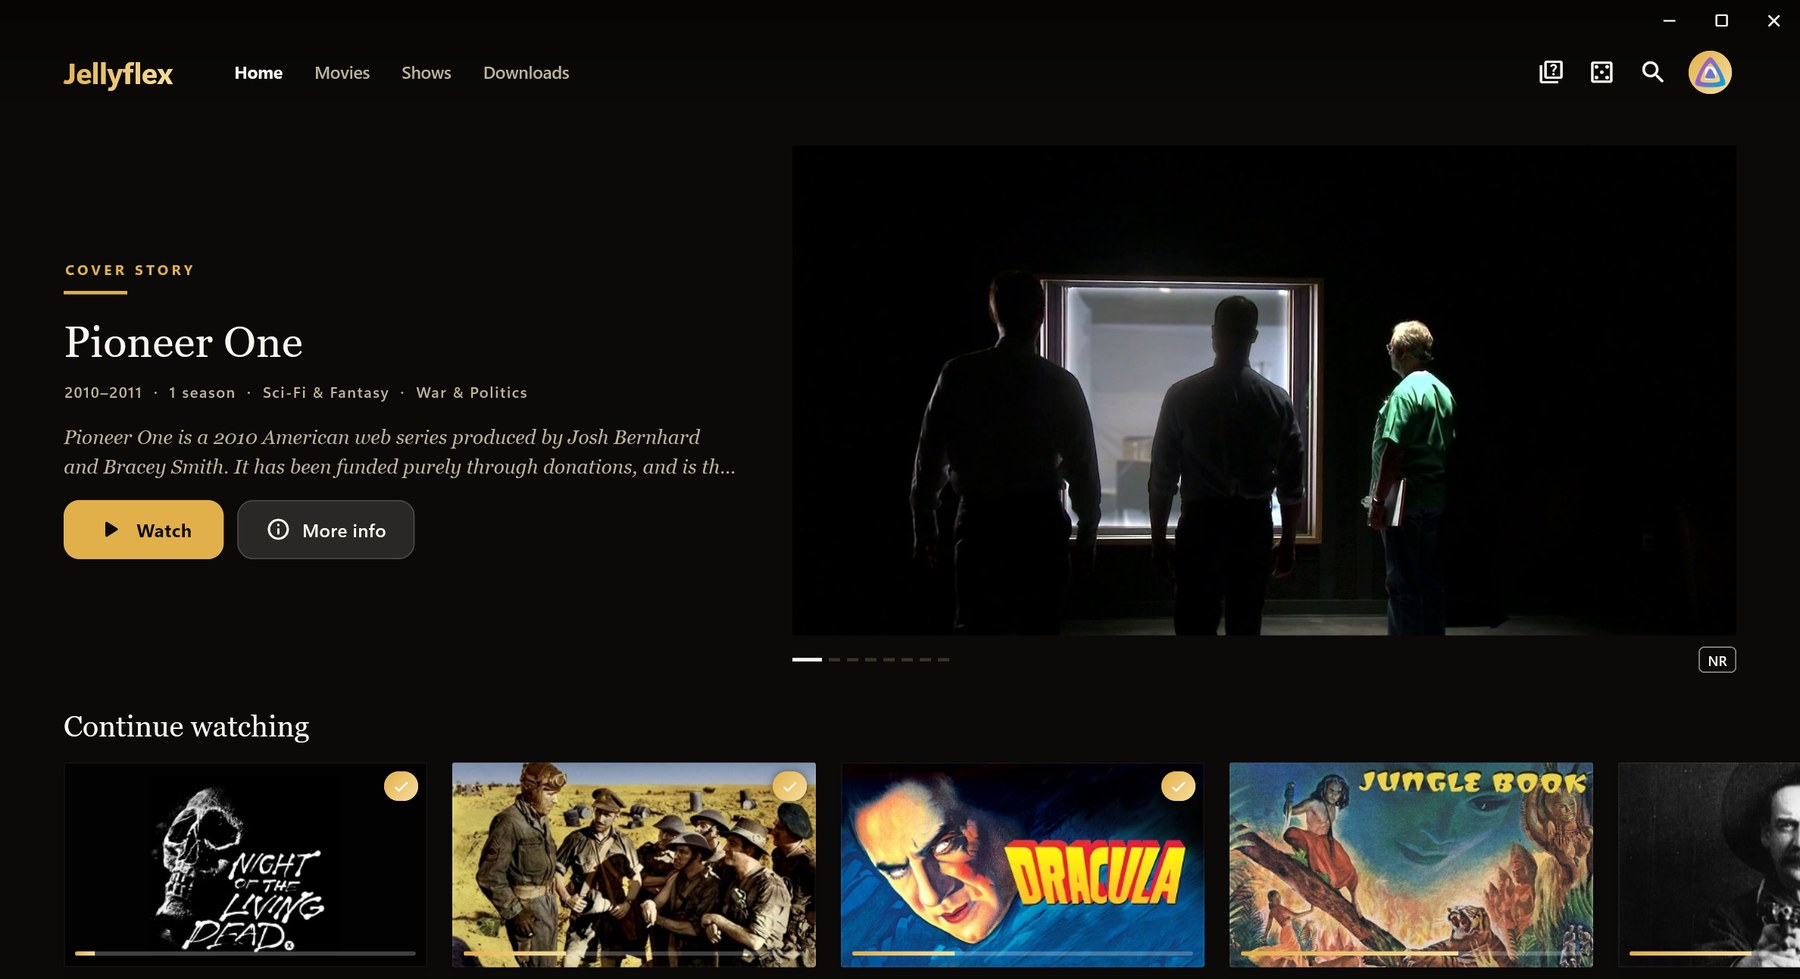
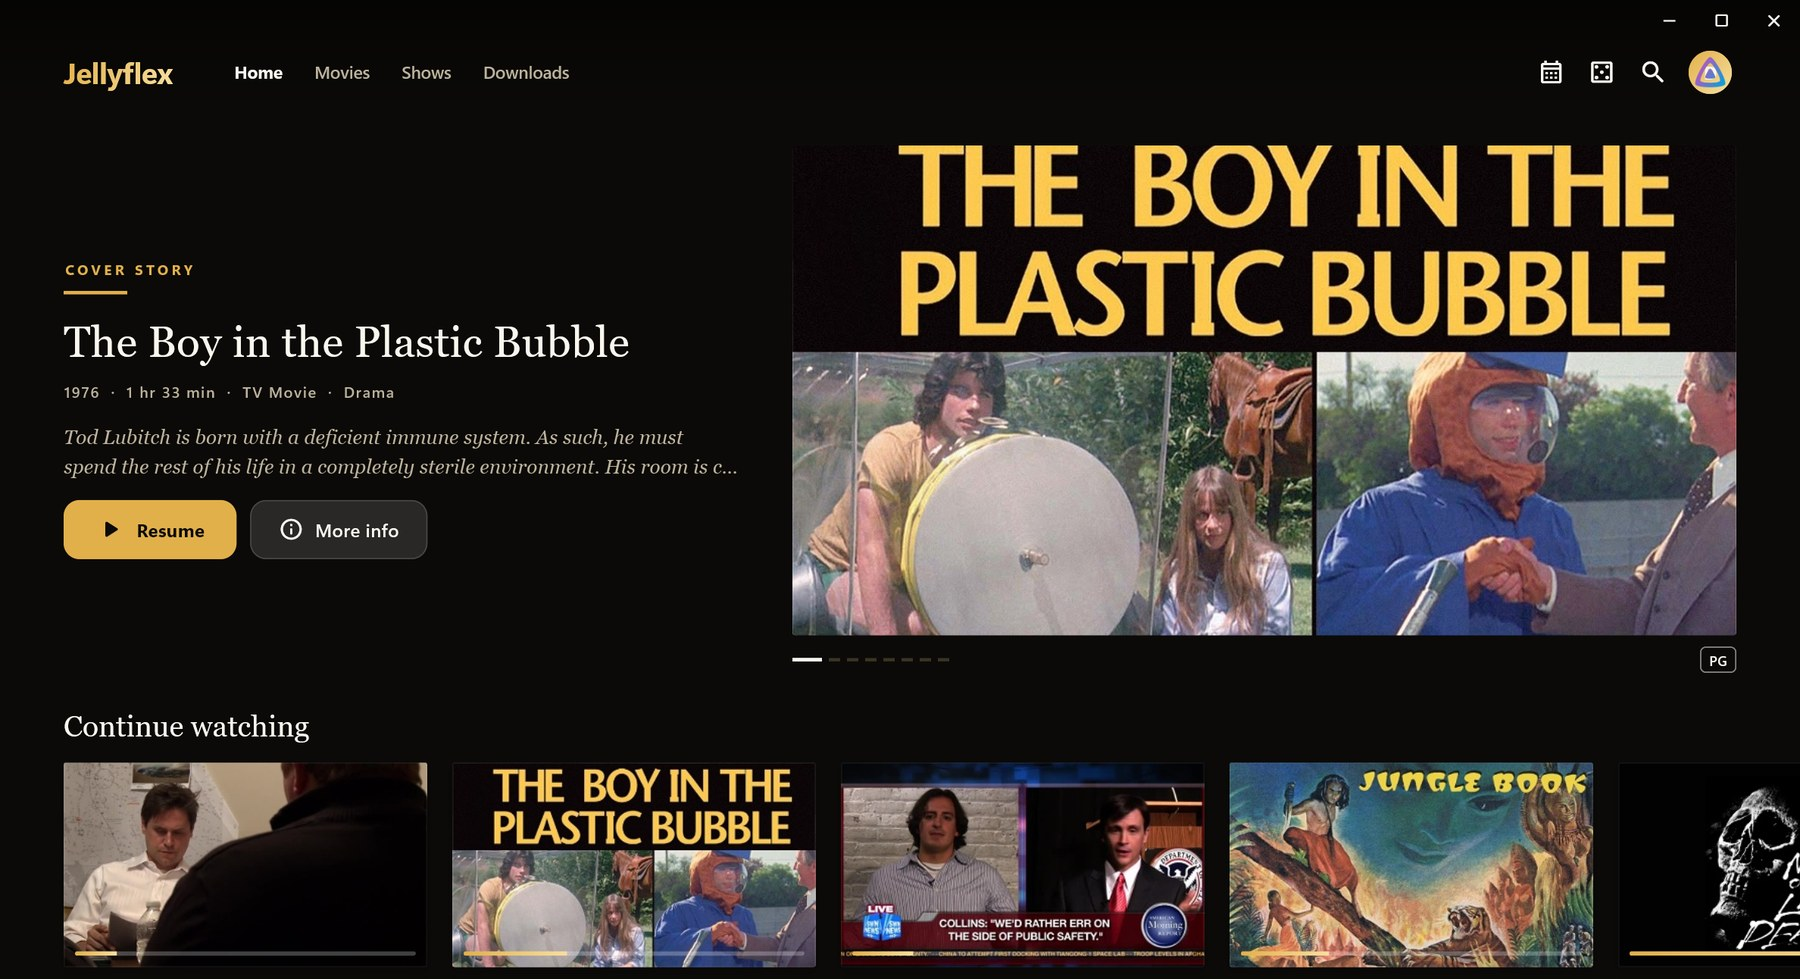
README: new screenshots and features of 0.3.7
Fresh pictures from the public Jellyfin demo server (details with option
chips, player with sharper subtitles and trickplay, all layouts) and the
feature list now mentions audio/subtitle choice on the details page,
subtitle search, rating logos, the Upcoming calendar, genre pages and the
settings search.

diff --git a/README.md b/README.md
@@ -58,7 +58,8 @@ Applications to the Trash.
 **Watching**
 - **Scene preview on cards**: rest on a title and its card flips through scenes (images from your server, no video)
 - **Direct Play** of practically every format through mpv (HEVC, AV1, HDR, DTS/TrueHD, ASS/PGS subtitles)
-- Audio/subtitle choice from your Jellyfin settings; the language you pick is **remembered per series**
+- **Pick audio and subtitles on the details page** or in the player; the language you pick is **remembered per series**
+- **Search and load subtitles through your server** (e.g. the OpenSubtitles plugin) – sharp, clean subtitle rendering
 - **Skip intro/recap** (Media Segments, e.g. from the Intro Skipper plugin), **next episode** countdown
 - **Trickplay** previews while seeking, **chapters** with pictures (`C`) and a **Scenes** row on the details page
 - Quality limit (the server converts on the fly), playback speed, audio/subtitle delay
@@ -71,7 +72,8 @@ Applications to the Trash.
 **Browsing**
 - Home with rotating banner, Continue watching, Next up, New in …, Favorites – rows can be
   reordered and hidden
-- Details pages with backdrop slideshow, logo, ratings, seasons & episodes, cast, similar titles
+- Details pages with backdrop slideshow, logo, **IMDb/TMDB and Rotten Tomatoes ratings**, seasons & episodes, cast, similar titles
+- **Upcoming** calendar with the next episodes of your shows; **browse by genre** with a page per genre
 - **People pages**: photo, biography and everything with that person on your server
 - **Versions**: if a movie exists twice (e.g. 4K and 1080p), pick the version; badges show 4K, HDR/Dolby Vision, Atmos
 - Library grid with sorting and filters, **multi-select**, smart search (titles, episodes, people)
@@ -91,6 +93,7 @@ Applications to the Trash.
 - 6 **layouts** (Cinema, Couch, Library, Magazine, Minimal, Retro VHS) and 8 color **themes**
 - Your own app name and logo
 - Languages: English, German, French, Spanish, Turkish
+- Settings in clear sections with a search field
 - Extras: "Surprise me" slot machine, screensaver, seasonal touches, year in review, theme music
 
 ### Privacy & security
